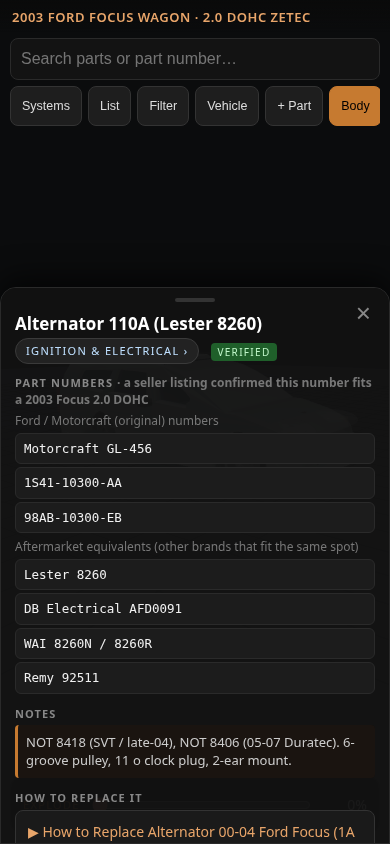
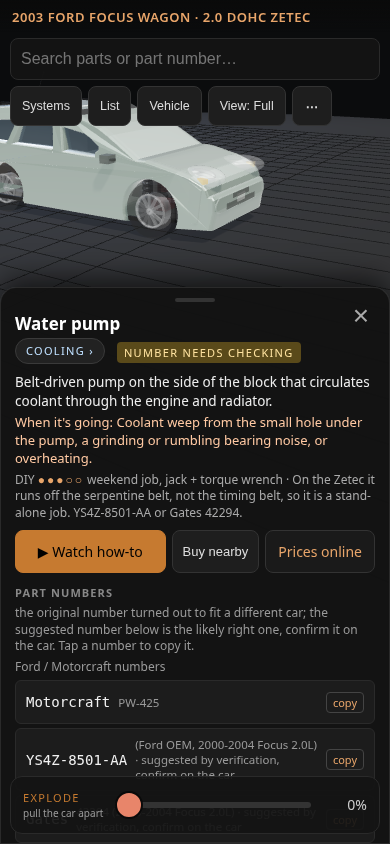
loop: build 20260926-163744-55beaf88

diff --git a/index.html b/index.html
@@ -3,7 +3,7 @@
 <head>
 <meta charset="utf-8"/>
 <meta name="viewport" content="width=device-width, initial-scale=1, maximum-scale=1, user-scalable=no, viewport-fit=cover"/>
-<meta name="build" content="20260926-163515-6eded13a"/>
+<meta name="build" content="20260926-163744-55beaf88"/>
 <meta name="robots" content="noindex, nofollow"/>
 <meta name="theme-color" content="#0a0a0a"/>
 <meta name="apple-mobile-web-app-capable" content="yes"/>
@@ -174,7 +174,7 @@ const PARTS=[
 {"id":"pcm","name":"Powertrain control module (PCM)","sys":"Ignition & Electrical","shape":"box","size":[0.9,1.2,0.35],"pos":[4.6,3.4,2.4],"ex":[-1,3,3],"color":7829367,"oe":["Calibration-specific; read tear tag on module"],"conf":"L","notes":"Must be programmed to VIN. Used units need PATS relearn."},
 {"id":"fuse-box","name":"Engine bay fuse/relay box (CJB)","sys":"Ignition & Electrical","shape":"box","size":[1.0,0.5,1.0],"pos":[5.0,3.4,2.75],"ex":[0,3,3],"color":2236962,"oe":["2M5Z-14A068-AA"],"conf":"L"},
 {"id":"exh-mani","name":"Exhaust manifold + catalytic converter","sys":"Exhaust","shape":"box","size":[1.0,1.8,2.4],"pos":[6.9,2.0,0],"ex":[2,-1,0],"color":6969930,"oe":["1S7Z-5G232-AA (manifold cat)","Walker 16476 (Focus manifold converter; year/engine not shown) (suggested by verification, confirm on car)"],"aft":["Walker 16404"],"conf":"X","notes":"49-state vs CA emissions differ. Check the underhood label. Loop flagged: Dorman 674-955 fits 2011-2016 Hyundai Elantra / Kia Forte only. Walker 16404 not found (Focus Walker numbers seen: 16476, 16453 08-11, 16647 12-18). 1S7Z-5G232-AA not in Ford catalog; the only 2003-2004 Focus manifold-cat listed (3S4Z-5G232-CD) is 2.3L. Suggested: Walker 16476 (Focus manifold converter; year/engine not shown).","rot":[0,3.14159,0]},
-{"id":"flex-pipe","name":"Flex pipe / front pipe","sys":"Exhaust","shape":"cyl","size":[0.25,4.6],"pos":[4.6,0.45,-0.8],"ex":[0,-0.12,-2],"color":7829367,"oe":["3S4Z-5246-AA"],"aft":["Walker 55254"],"conf":"L","rot":[0,0,0]},
+{"id":"flex-pipe","name":"Flex pipe / front pipe","sys":"Exhaust","shape":"cyl","size":[0.25,4.6],"pos":[4.6,0.7,-0.8],"ex":[0,-0.12,-2],"color":7829367,"oe":["3S4Z-5246-AA"],"aft":["Walker 55254"],"conf":"L","rot":[0,0,0]},
 {"id":"muffler","name":"Muffler + tailpipe","sys":"Exhaust","shape":"cyl","size":[0.6,3.0],"pos":[-6.6,0.7,1.4],"ex":[-5,-0.28,0],"color":7829367,"oe":["3S4Z-5230-AA (wagon)"],"aft":["Walker 21550","Bosal 279-135"],"conf":"L","notes":"Wagon muffler differs from sedan/hatch.","rot":[0,0,0]},
 {"id":"mid-pipe","name":"Resonator / mid pipe","sys":"Exhaust","shape":"cyl","size":[0.3,7.2],"pos":[-1.5,0.5,-1.6],"ex":[0,-0.16,-2],"color":7829367,"oe":[],"aft":["Walker 54551"],"conf":"L","rot":[0,0,0]},
 {"id":"trans","name":"Transaxle (MTX-75 manual or 4F27E auto)","sys":"Transmission & Drive","shape":"box","size":[2.2,2.0,1.1],"pos":[5.7,1.9,1.85],"ex":[0,0,6],"color":10133670,"oe":["MTX-75: 1S7Z-7003-xx","4F27E: 3S4Z-7000-xx"],"conf":"L","notes":"Identify: manual has clutch pedal. Auto 4F27E shares with Mazda FN4A-EL."},
@@ -507,7 +507,7 @@ let sysFilter='',query='',showBody=true,xray=false,selected=null;
 let t=0,tTarget=0; const slider=document.getElementById('t'),tv=document.getElementById('tv');
 function setT(v){tTarget=Math.max(0,Math.min(1,v)); slider.value=Math.round(tTarget*1000); tv.textContent=Math.round(tTarget*100)+'%';}
 slider.addEventListener('input',()=>setT(slider.value/1000));
-{const u=new URLSearchParams(location.search); if(u.has('t')){setT(parseFloat(u.get('t'))||0); t=tTarget;} if(u.has('cam')){const c=u.get('cam').split(',').map(Number); if(c.length===3) camera.position.set(...c);} if(u.has('xray')){setView(1);} if(u.has('shellonly')){group.visible=false;} if(u.has('dbg')){setTimeout(()=>{const b=new THREE.Box3().setFromObject(shell.children[0]); const g=new THREE.Box3().setFromObject(group); document.getElementById('subtitle').textContent='DBG shell '+JSON.stringify(b)+' group '+JSON.stringify(g)+' cam '+JSON.stringify(camera.position)+' rev '+THREE.REVISION;},3000);} if(u.has('target')){const c=u.get('target').split(',').map(Number); if(c.length===3) controls.target.set(...c);} if(u.has('dbgparts')){setTimeout(()=>{const out=meshes.map(m=>{const b=new THREE.Box3().setFromObject(m); return {id:m.userData.p.id,min:[b.min.x,b.min.y,b.min.z].map(v=>+v.toFixed(2)),max:[b.max.x,b.max.y,b.max.z].map(v=>+v.toFixed(2))};}); document.getElementById('subtitle').textContent='DBGPARTS '+JSON.stringify(out)+' END';},3000);}}
+{const u=new URLSearchParams(location.search); if(u.has('t')){setT(parseFloat(u.get('t'))||0); t=tTarget;} if(u.has('cam')){const c=u.get('cam').split(',').map(Number); if(c.length===3) camera.position.set(...c);} if(u.has('xray')){xray=true;} if(u.has('shellonly')){group.visible=false;} if(u.has('dbg')){setTimeout(()=>{const b=new THREE.Box3().setFromObject(shell.children[0]); const g=new THREE.Box3().setFromObject(group); document.getElementById('subtitle').textContent='DBG shell '+JSON.stringify(b)+' group '+JSON.stringify(g)+' cam '+JSON.stringify(camera.position)+' rev '+THREE.REVISION;},3000);} if(u.has('target')){const c=u.get('target').split(',').map(Number); if(c.length===3) controls.target.set(...c);} if(u.has('dbgparts')){setTimeout(()=>{const out=meshes.map(m=>{const b=new THREE.Box3().setFromObject(m); return {id:m.userData.p.id,min:[b.min.x,b.min.y,b.min.z].map(v=>+v.toFixed(2)),max:[b.max.x,b.max.y,b.max.z].map(v=>+v.toFixed(2))};}); document.getElementById('subtitle').textContent='DBGPARTS '+JSON.stringify(out)+' END';},3000);}}
 canvas.addEventListener('wheel',e=>{e.preventDefault(); setT(tTarget+(e.deltaY>0?0.04:-0.04));},{passive:false});
 let pinch0=null; const dist=tt=>Math.hypot(tt[0].clientX-tt[1].clientX,tt[0].clientY-tt[1].clientY);
 canvas.addEventListener('touchstart',e=>{if(e.touches.length===2)pinch0={d:dist(e.touches),t:tTarget};},{passive:true});
@@ -699,7 +699,11 @@ document.getElementById('importFile').addEventListener('change',e=>{const f=e.ta
 
 /* ===== SYSTEMS (what each system does, its parts, how systems interact) ===== */
 function partsOf(s){return allParts().filter(p=>p.sys===s);}
-function linkNames(text,parts){ let out=esc(text); for(const p of parts.slice().sort((a,b)=>b.name.length-a.name.length)){const short=esc(p.name.replace(/\s*\(.*?\)/g,'').replace(/\s*\+.*$/,'').trim()); if(short.length<4) continue; const re=new RegExp('(^|[^\\w-])('+short.replace(/[.*+?^${}()|[\]\\]/g,'\\$&')+')(?=[^\\w-]|$)','i'); out=out.replace(re,(m,a,b)=>`${a}<span class="chip" data-part="${p.id}" style="padding:1px 7px">${b}</span>`);} return out; }
+function linkNames(text,parts){ const toks=[]; let out=esc(text);
+  for(const p of parts.slice().sort((a,b)=>b.name.length-a.name.length)){ const short=esc(p.name.replace(/\s*\(.*?\)/g,'').replace(/\s*\+.*$/,'').trim()); if(short.length<4) continue;
+    const re=new RegExp('(^|[^\\w-])('+short.replace(/[.*+?^${}()|[\]\\]/g,'\\$&')+')(?=[^\\w-]|$)','i');
+    out=out.replace(re,(m,a,b)=>{toks.push(`<span class="chip" data-part="${p.id}" style="padding:1px 7px">${b}</span>`); return a+'\u0000'+(toks.length-1)+'\u0000';}); }
+  return out.replace(/\u0000(\d+)\u0000/g,(m,i)=>toks[+i]); }
 function showSystems(name){ open('sys'); const b=document.getElementById('sbody');
   if(!name){ b.innerHTML=`<h2>Systems</h2><div class="sys">the car in ${SYSTEMS.length} pieces · tap one</div><div class="refresh"><b>Refresher</b>A car is a few systems bolted together: the engine makes power, cooling keeps it alive, fuel & air feed it, ignition & electrical light it and run everything else, the transaxle sends power to the wheels, and suspension/steering/brakes control where it goes. Everything else is comfort and skin.</div>`+
       SYSTEMS.map(s=>{const i=SYSTEM_INFO[s]||{}; const n=partsOf(s).length; return `<button class="card" data-sys="${esc(s)}"><b>${esc(s)}</b> <span class="badge cL">${n} part${n===1?'':'s'}</span><small>${esc(i.does||'')}</small></button>`;}).join('');
@@ -738,6 +742,7 @@ function openFromUrl(){ const o=new URLSearchParams(location.search).get('open')
   if(o.startsWith('panel:')){const m=byId[o.slice(6)]; if(m) select(m);} else if(o==='list'){renderList();open('list');} else if(o==='veh') showVeh(false); else if(o==='data') showData(); else if(o==='help') showHelp(); else if(o==='systems') showSystems(); else if(o.startsWith('systems:')) showSystems(o.slice(8)); return true; }
 
 /* ===== RUN ===== */
+if(xray) setView(1);
 rebuild(); renderList(); updateSubtitle(); updateSysbar();
 document.getElementById('bCoachOk').onclick=()=>{localStorage.setItem(KEY+':seen','1'); document.getElementById('coach').classList.remove('show');};
 document.getElementById('bCoachHelp').onclick=()=>{localStorage.setItem(KEY+':seen','1'); document.getElementById('coach').classList.remove('show'); showHelp();};

diff --git a/README.md b/README.md
@@ -23,18 +23,30 @@ PBR paint with environment lighting and shadows. Paint color is editable in the 
 `renders/` holds headless screenshots. URL params for testing: `?t=0.5&cam=x,y,z&target=x,y,z&shellonly=1&xray=1`.
 
 ## The loop
-`./run.sh` = `python3 loop.py --deploy`. Stages: lint → videos (oEmbed re-check, dead links removed + logged to
-dead-videos.log) → sheet → syntax → stamp (build id in `<meta name="build">`) → render (7 headless frames) →
-smoke (live bounding-box check that the car is car-shaped) → git commit → deploy → verify the public URL carries
-the build id. Deploy and commit are skipped if any earlier stage fails. `BUILD-REPORT.md` has the last run.
-Flags: `--skip-videos`, `--skip-render`; omit `--deploy` to verify only.
+`./run.sh` runs everything and deploys only if it all passes. Run it after ANY edit; never hand-deploy.
+1. Deterministic loops (`loops/loop_*.py` -> `reports/*.json`): `videos` (live + relevant + right generation), `links`
+   (HTTP status of every generated URL; bot-walled hosts recorded as unverifiable, never as pass), `geometry` (headless render,
+   every part's world bbox checked against its system's zone and the body envelope), `sheet` (flat sheet agrees with the page
+   part-for-part), `stores` (addresses/phones re-read from the chains' own pages), `systems` (the Systems sheet content is
+   complete: every system described, every interaction names a real system and is reciprocated, every part has does/fails/diy/tip).
+2. Agentic loops, each running its own `claude -p` through `loops/agent.py` and cached on a hash of the data it judges
+   (`reports/.agent-cache/`, so unchanged inputs never cost a second run; `--fresh` forces one):
+   `partnumbers` (web-checks the claimed OE/aftermarket numbers of every part whose claim changed; verdict per part with
+   evidence URLs; `--all`, `--ids=a,b`, `--stale-days=N`), `modelqc` (renders x-ray top/side/front views and has an agent that
+   knows the real 2000-04 Zetec Focus layout judge every part's position, size and explode direction), `uiqc` (screenshots
+   every sheet at phone and desktop size via the `?open=` hook and has an agent review usability for a non-mechanic owner).
+3. `loops/loop_cross.py --apply` cross-checks all reports against each other and the page, applies only the safe fixes
+   (dedupe numbers, confirmed numbers -> verified + reordered first, contradicted -> flagged + wrong-fit numbers removed +
+   suggestion added once, wrong-generation videos dropped), writes `CROSS-REPORT.md` and blocks the deploy on any error.
+   Agent opinions (model/UI QC) are surfaced as warnings and notes, never enforced; `--apply-model` also applies the model
+   QC's error-severity position suggestions.
+4. `loop.py --deploy`: lint -> videos -> sheet -> syntax -> stamp (build id in `<meta name="build">`) -> render (7 frames) ->
+   smoke (live bounding-box check that the car is car-shaped) -> git commit + push -> vercel deploy -> verify the public URL
+   carries the build id. `BUILD-REPORT.md` has the last run.
+Flags to `run.sh`: `--no-agents`, `--fresh`, `--apply-model`; everything else is passed to `loop.py` (`--skip-videos`, `--skip-render`).
 
-## Verification loops (run before every deploy)
-`run.sh` now runs, in order: `loops/loop_videos.py` (live + relevant + right generation), `loop_links.py`
-(HTTP status of every generated URL; bot-walled hosts recorded as unverifiable, never as pass), `loop_geometry.py`
-(headless render, every part's world bbox checked against its system's zone and the body envelope), `loop_sheet.py`
-(flat sheet must agree with the page part-for-part), `loop_stores.py` (store addresses/phones re-read from the chains'
-own location pages). `reports/partnumbers.json` comes from an agent pass that web-checks every claimed part number.
-Then `loops/loop_cross.py --apply` checks all reports against each other and the page, applies only safe fixes
-(confirmed numbers → verified + reordered first; contradicted → flagged X; wrong-vehicle videos dropped), writes
-CROSS-REPORT.md, and blocks the deploy on any error. Only then does `loop.py --deploy` run.
+## Plain-English layer
+`docs/systems.json` (14 systems: what it does, how it works on this car, interactions, what usually fails, a one-line refresher)
+and `docs/part-notes.json` (96 parts: does / fails / diy 1-5 / tip) are injected into `index.html` by
+`loops/inject_content.py` as `SYSTEM_INFO` and `PART_NOTES`. Edit the JSON, re-inject, run the loop.
+URL test hook: `?open=panel:<id> | list | veh | data | help | systems | systems:<name>`.

diff --git a/BUILD-REPORT.md b/BUILD-REPORT.md
@@ -1,6 +1,6 @@
-# Build report 20260926-163148-dc2ebaa4
+# Build report 20260926-163515-6eded13a
 
-2026-09-26T16:31:50.737976+00:00  args: --skip-render --skip-videos
+2026-09-26T16:35:47.598895+00:00  args: --skip-videos
 
 | stage | result | detail | s |
 |---|---|---|---|
@@ -8,8 +8,8 @@
 | videos | ok | skipped | 0.0 |
 | sheet | ok | 96 rows | 0.0 |
 | syntax | ok | module + required UI present | 0.0 |
-| stamp | ok | 20260926-163148-dc2ebaa4 | 0.0 |
-| render | ok | skipped | 0.0 |
-| smoke | ok | skipped | 0.0 |
-| git | ok | committed 25b657c + pushed | 2.7 |
+| stamp | ok | 20260926-163515-6eded13a | 0.0 |
+| render | ok | 7 frames | 25.3 |
+| smoke | ok | shell 18.3L x 5.7H x 6.8W, parts within bounds | 3.1 |
+| git | ok | committed 43b6b49 + pushed | 4.0 |
 | deploy | ok | skipped (pass --deploy) | 0.0 |
